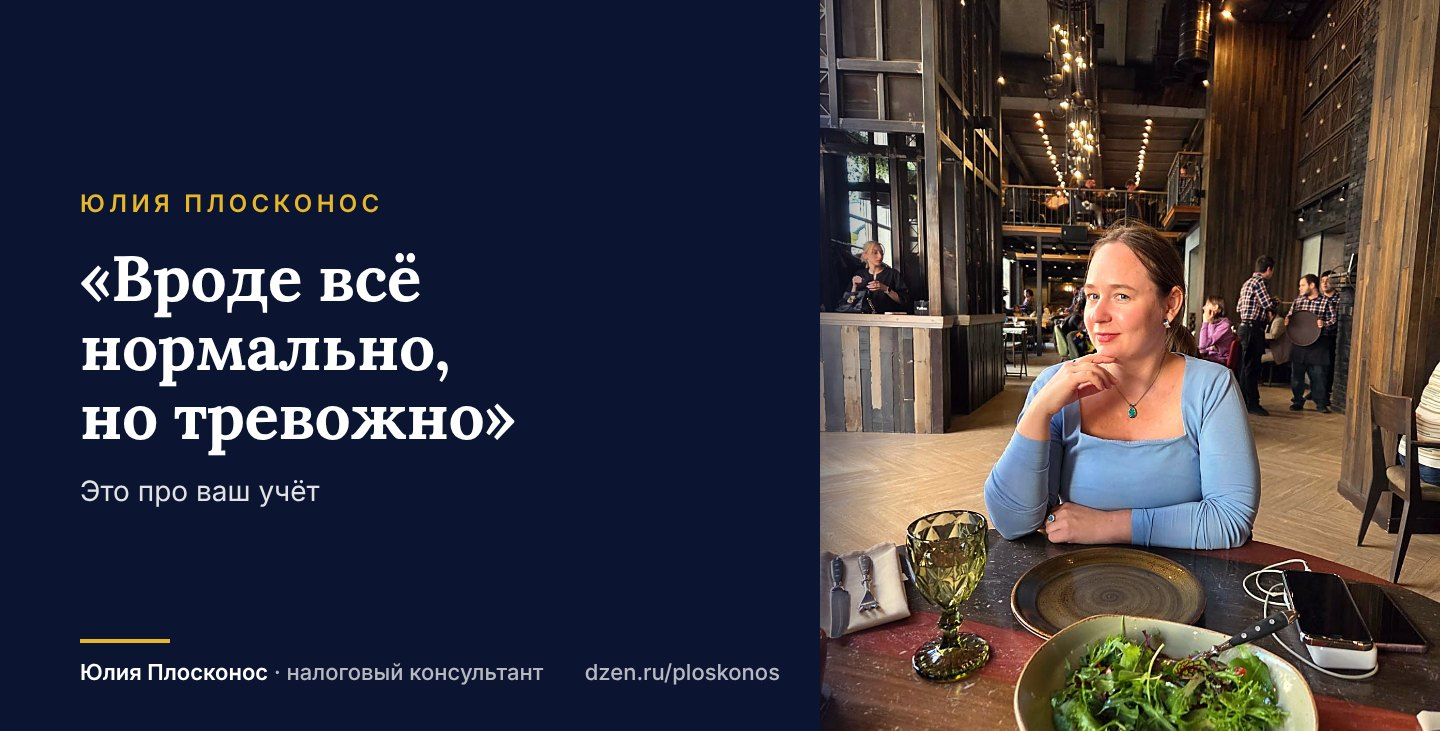
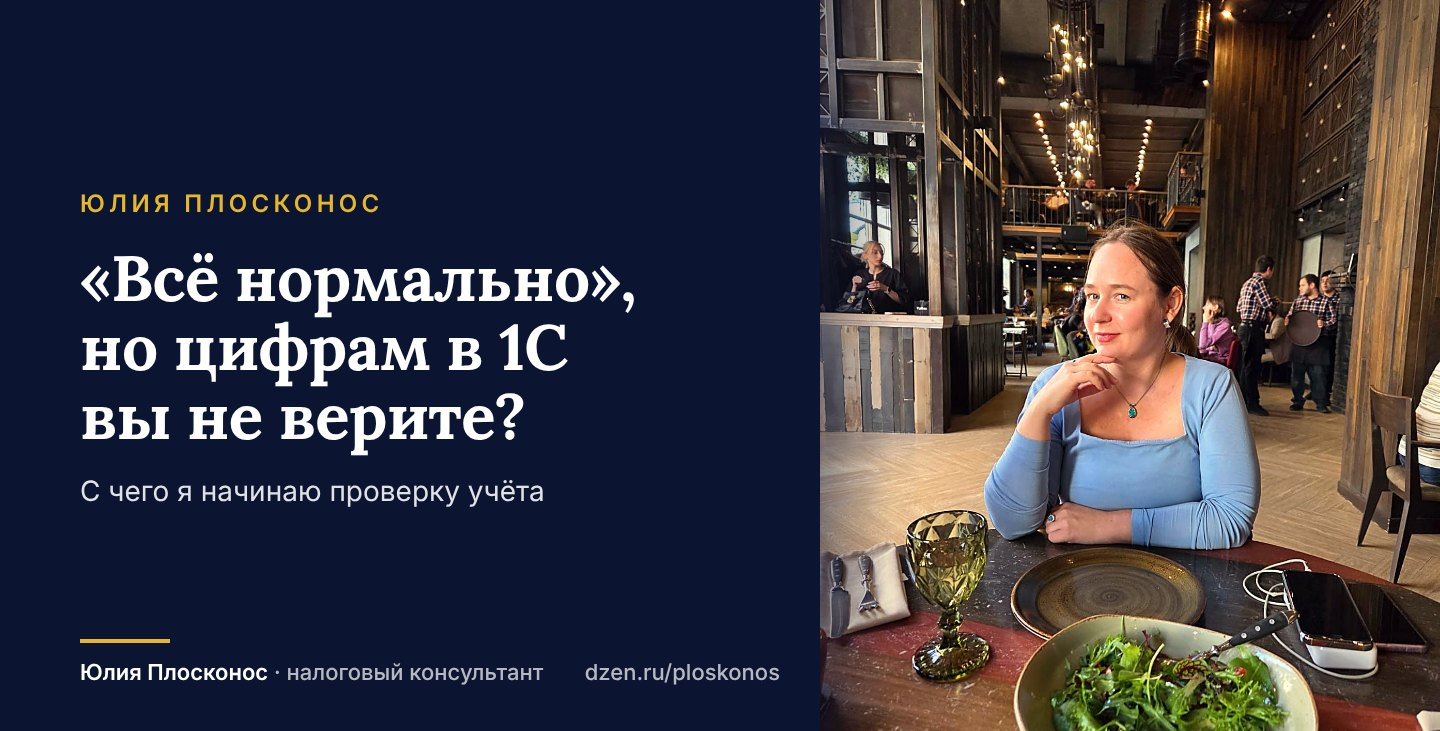
Дзен №19: новый заголовок и текст по аудиту 08, обложка
Claude-Session: https://claude.ai/code/session_013Qm2mbBWBWRNQADMDb9gwE

Changed region(s): [[0.0625, 0.3311, 0.4375, 0.632], [0.0625, 0.6621, 0.375, 0.6922]]

diff --git a/content/dzen/2026-11-lichnoe.md b/content/dzen/2026-11-lichnoe.md
@@ -586,27 +586,31 @@
 Подписывайтесь — буду рассказывать про учёбу и управление изнутри.
 ---
 
-## 19. «Вроде всё нормально, но тревожно». С чего я начинаю проверку учёта
+## 19. «Всё нормально», но цифрам в 1С вы не верите? С чего я начинаю проверку
 
-Ко мне часто приходят с фразой «у нас вроде всё нормально, но как-то тревожно». Ни требования, ни проверки. Просто ощущение, что цифрам нельзя доверять.
+«У нас вроде всё нормально, но как-то тревожно». С этой фразы ко мне приходят собственники. Ни требования из налоговой, ни проверки. Просто ощущение, что цифрам в учёте нельзя доверять.
 
-Это ощущение я уважаю. Обычно оно появляется не на пустом месте: сменился бухгалтер, вырос оборот, собственник перестал понимать, сколько у него денег.
+Это ощущение я уважаю. Обычно оно появляется не на пустом месте: сменился бухгалтер, вырос оборот, собственник перестал понимать, сколько у него на самом деле денег и долгов.
 
-Но «проверить всё» — плохая задача. Она дорогая, долгая и размытая. Поэтому я начинаю с другого: с границ проверки.
+Но «проверить всё» — плохая задача. Она дорогая, долгая и размытая. Поэтому я начинаю не с базы, а с границ проверки.
 
-Первый разговор — это вопросы:
+Первый разговор — это три вопроса:
 
-1. Что именно тревожит? Деньги, долги, налоги, документы? Обычно есть одна главная точка.
+1. Что именно тревожит? Деньги, долги, налоги, документы? Почти всегда есть одна главная точка.
 
-2. За какой период? Текущий квартал, год, или «с тех пор, как ушёл прошлый бухгалтер».
+2. За какой период? Текущий квартал, год или «с тех пор, как ушёл прошлый бухгалтер».
 
 3. Какой результат нужен? Спать спокойно, подготовиться к проверке, передать учёт новому бухгалтеру, ответить на требование.
 
-После этого понятно, что смотреть. Обычно это расчёты с поставщиками и покупателями, НДС, остатки, закрытие месяца и места, которые чаще всего вызывают вопросы налоговой.
+После этого понятно, куда смотреть в 1С. Обычно это:
 
-Что вы получаете в итоге: понятный список — что в порядке, что нужно исправить срочно, а что может подождать. По каждому замечанию — к чему оно относится и какой следующий шаг. Без бухгалтерского тумана, простыми словами.
+— расчёты с поставщиками и покупателями: сходятся ли долги в учёте с актами сверки;
+— НДС: объясняется ли декларация книгами покупок и продаж;
+— остатки и закрытие месяца: нет ли ошибок, которые все давно перестали замечать.
 
-Чего я не обещаю: найти все ошибки с первого взгляда. Быстрая проверка показывает, где риск. Глубина зависит от того, о чём мы договорились.
+Что вы получаете в итоге: понятный список — что в порядке, что исправить срочно, а что может подождать. По каждому замечанию — к чему оно относится и какой следующий шаг. Простыми словами, без бухгалтерского тумана.
+
+Чего я не обещаю: найти все ошибки с первого взгляда. Быстрый разбор показывает, где риск. Глубокая проверка — это уже отдельная работа, и её объём мы согласуем заранее.
 
 Кому это нужно:
 — собственнику, который сменил бухгалтера или собирается;
@@ -615,13 +619,21 @@
 
 Стоимость зависит от размера базы, периода и того, что проверяем. Называю её после первого разговора, когда понятны границы, — не наугад.
 
-Бывает, что после такого разговора выясняется: большая проверка не нужна, нужен один точный вопрос к бухгалтеру. Это тоже результат.
+Даже если вы не готовы заказывать проверку, ответьте себе на три вопроса выше. Часто уже это снимает половину тревоги: становится понятно, чего именно вы боитесь.
 
-Даже если вы не готовы заказывать проверку, попробуйте ответить себе на три вопроса выше. Часто уже это снимает половину тревоги: становится понятно, чего именно вы боитесь.
-
-А вам знакомо это «вроде нормально, но тревожно»? Что обычно его вызывает?
+А вам знакомо это «вроде нормально, но тревожно»? Что обычно его вызывает? Напишите в комментариях.
 
 Разберу ваш учёт и скажу, с чего начать → vpluse.pro
+
+Было полезно — поставьте лайк и подпишитесь.
+
+Юлия Плосконос, налоговый консультант
+
+Написать мне:
+ВКонтакте → vk.com/vpluse_proo
+MAX → max.ru/id362804736954_biz
+Почта → ipploskonos@mail.ru
+Сайт → vpluse.pro
 
 ---
 
